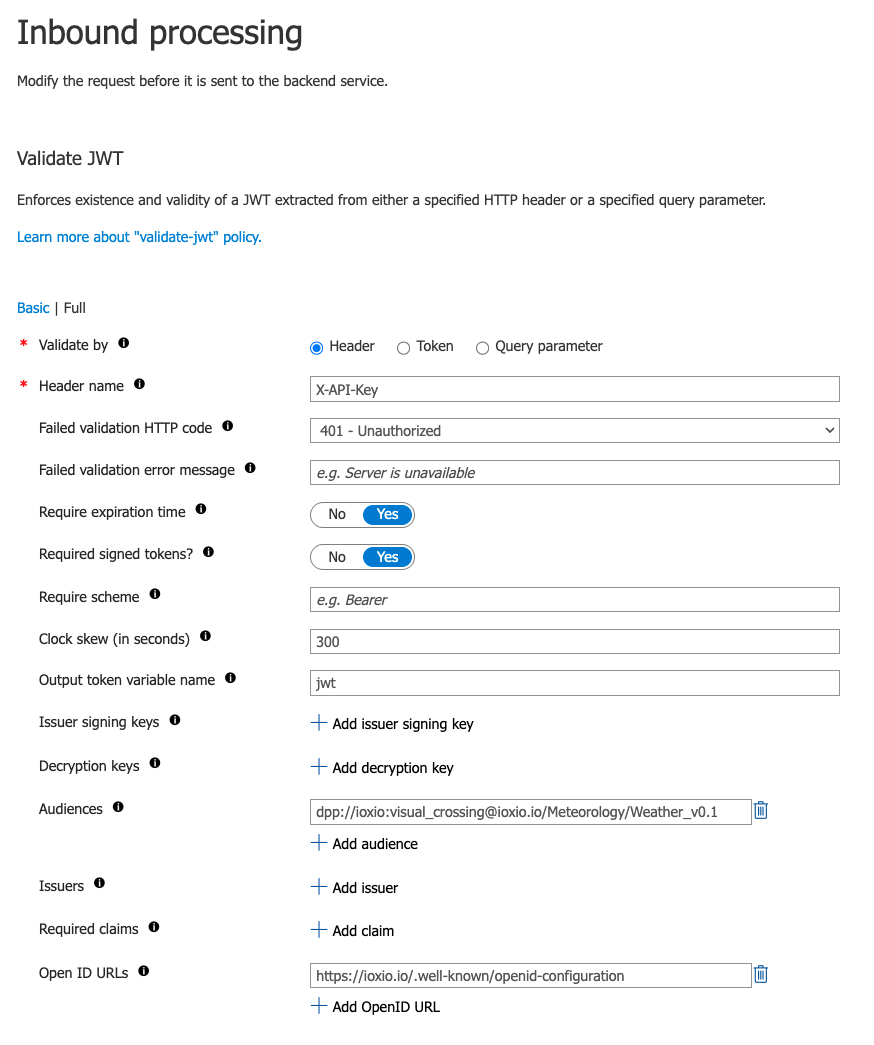
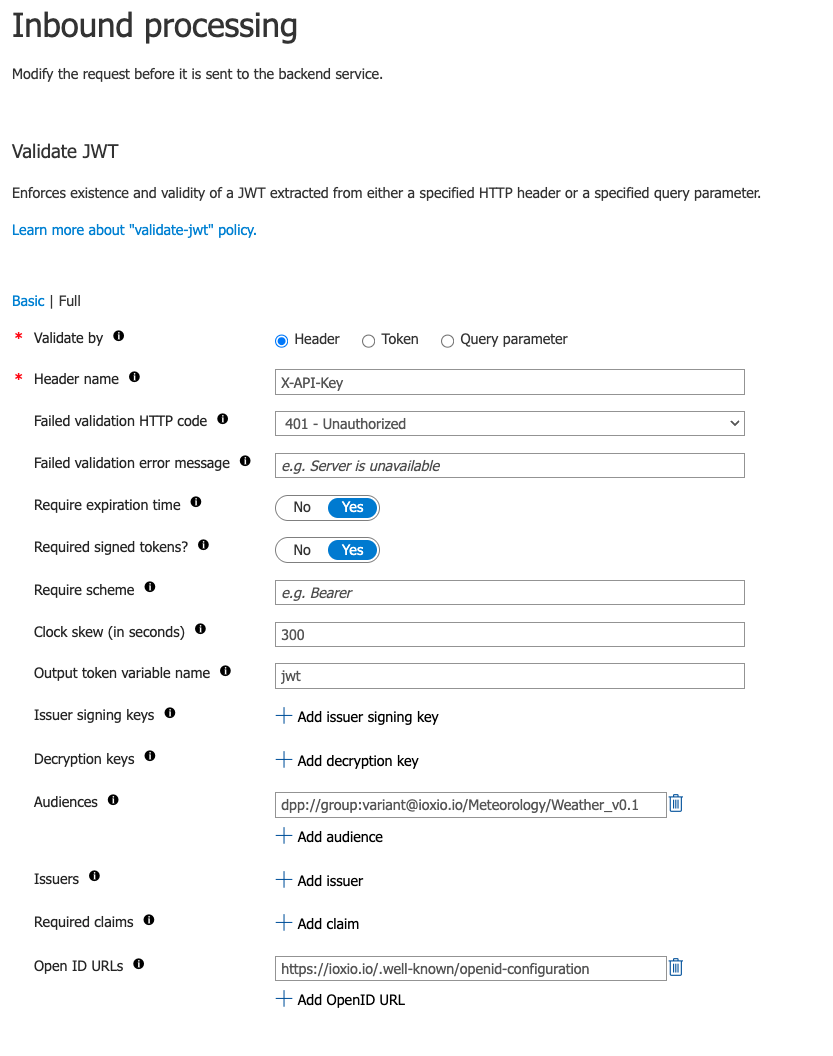
Get rid of mentions of ioxio:visual_crossing
- Replaced screenshot from jwt.io
- Replaced screenshot from Azure API Management
- Text changes

diff --git a/src/routes/guides/verifying-api-tokens/+page.svelte b/src/routes/guides/verifying-api-tokens/+page.svelte
@@ -158,7 +158,7 @@
     output-token-variable-name="jwt">
   <openid-config url="https://ioxio.io/.well-known/openid-configuration" />
   <audiences>
-    <audience>dpp://ioxio:visual_crossing@ioxio.io/Meteorology/Weather_v0.1</audience>
+    <audience>dpp://group:variant@ioxio.io/Meteorology/Weather_v0.1</audience>
   </audiences>
 </validate-jwt>
     `}
@@ -203,7 +203,7 @@
     {`
 {
   "valid": true,
-  "aud": "dpp://ioxio:visual_crossing@ioxio.io/Meteorology/Weather_v0.1",
+  "aud": "dpp://group:variant@ioxio.io/Meteorology/Weather_v0.1",
   "exp": 1733758438,
   "iat": 1733754838,
   "iss": "https://ioxio.io",
